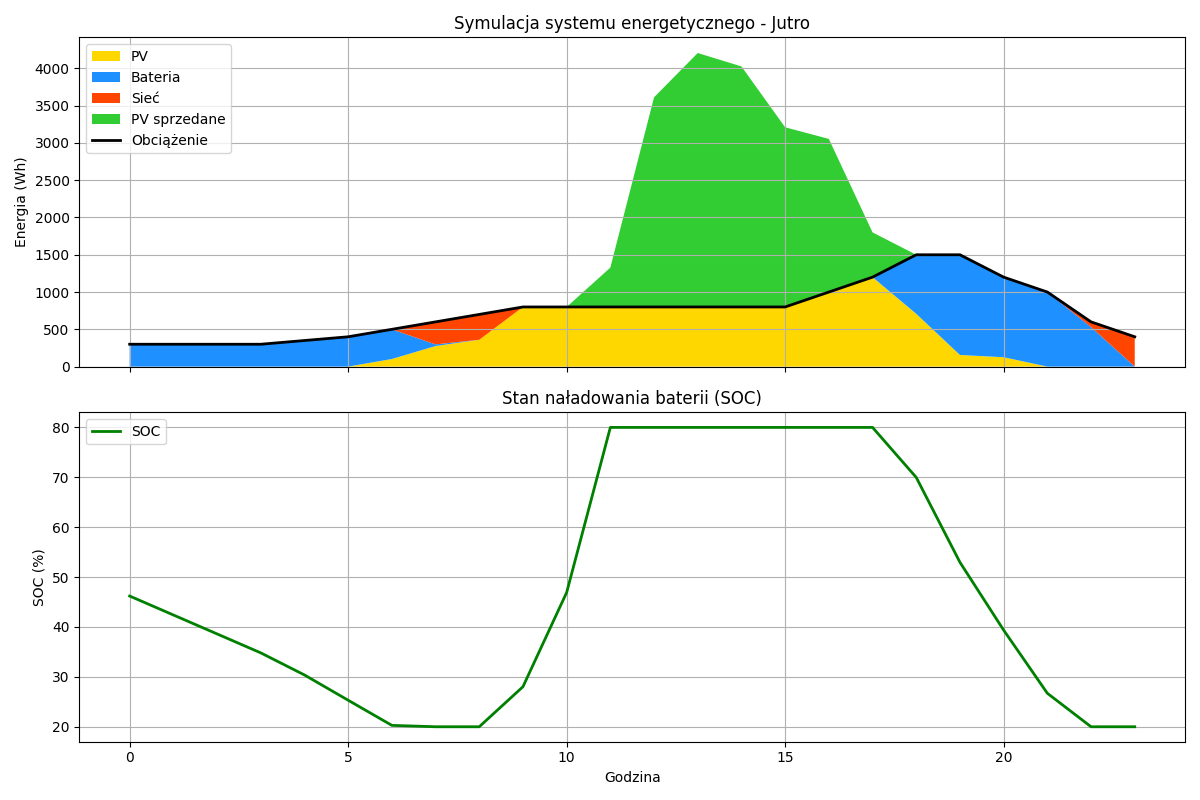
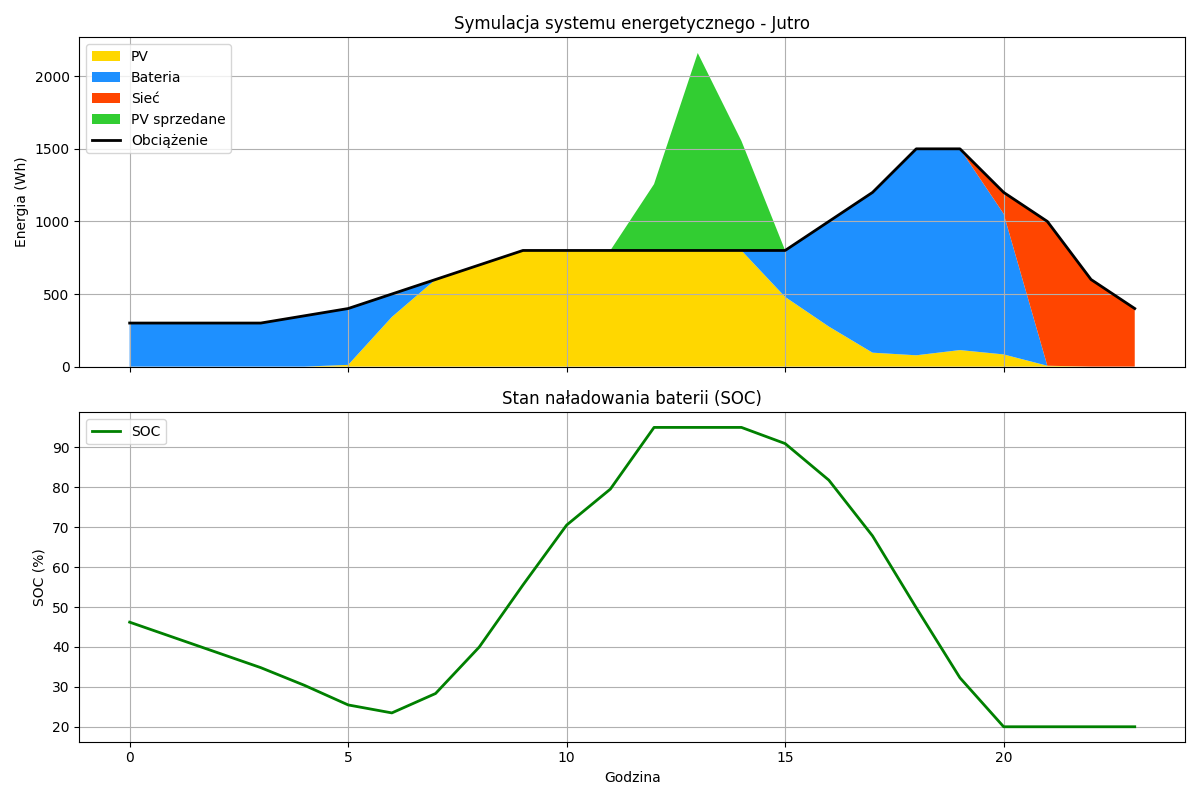
nie wiem co zmienilem ale uaktualniam

diff --git a/porgnoza_zarzadzanie.py b/porgnoza_zarzadzanie.py
@@ -5,7 +5,7 @@ class SmartEnergySystem:
     def __init__(self, soc=50, pv_forecast_tomorrow=None):
         self.SOC = soc
         self.SOC_DEFAULT_MIN = 20
-        self.SOC_DEFAULT_MAX = 80
+        self.SOC_DEFAULT_MAX = 95
         self.BATTERY_CAPACITY = 7900  # 7,9 kWh
 
         self.logs = []
